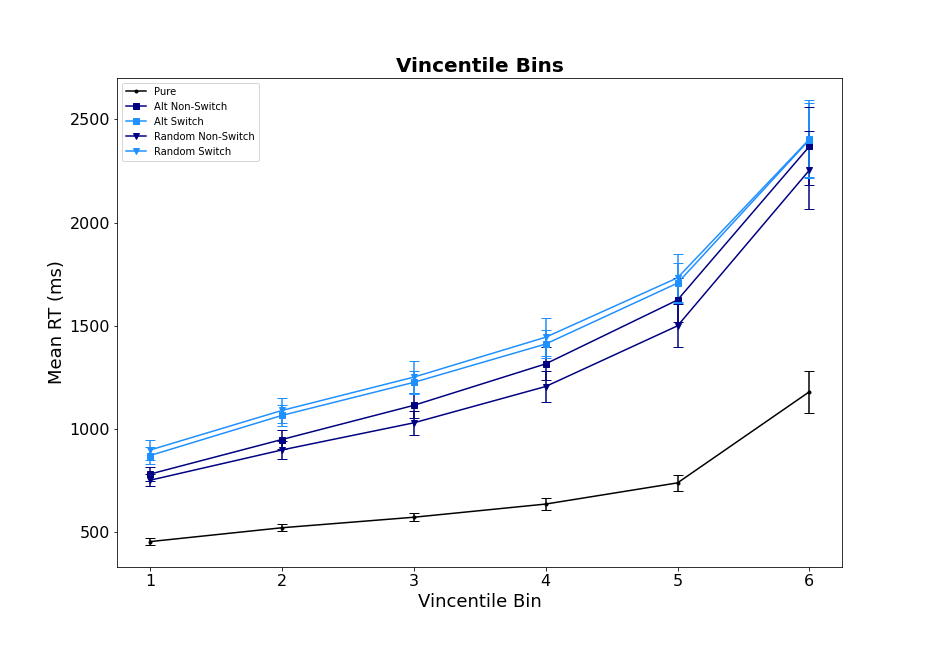
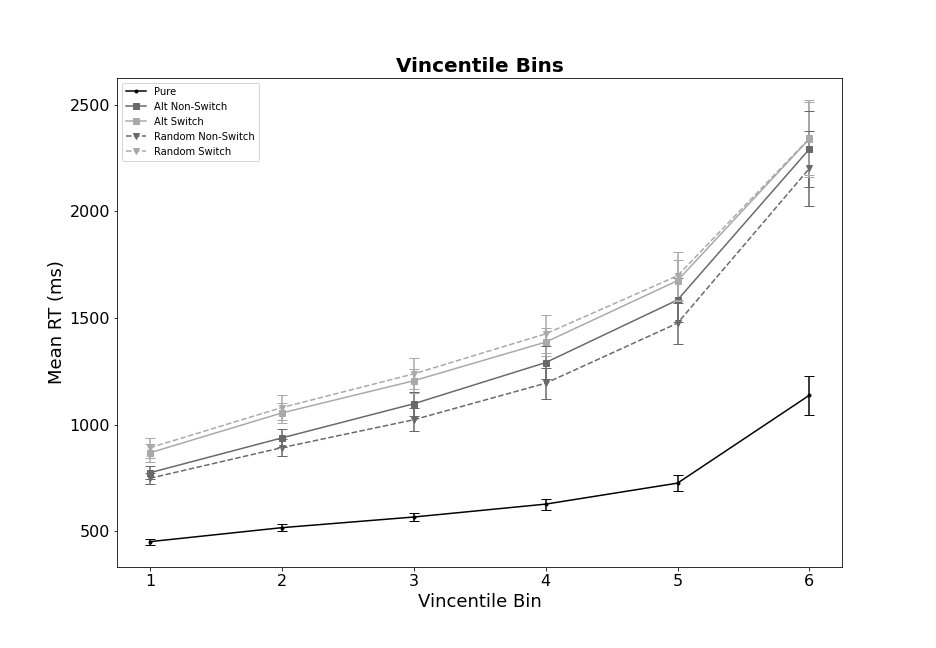
YA vin plot

diff --git a/1 YA/2 Analyses/2 Vincentiles/Plots/Vin plot.py b/1 YA/2 Analyses/2 Vincentiles/Plots/Vin plot.py
@@ -33,29 +33,29 @@ ax1.errorbar(x1, y1, yerr = (pure['diff2']), fmt='none', c= 'k', capsize=5)
 x2 = alt_ns.bin.values
 y2 = alt_ns.Average.values
 
-ax1.plot(x2, y2, marker = 's', color = 'navy', label='Alt Non-Switch')
-ax1.errorbar(x2, y2, yerr = (alt_ns['diff2']), fmt='none', c= 'navy', capsize=5)
+ax1.plot(x2, y2, marker = 's', color = 'dimgray', label='Alt Non-Switch')
+ax1.errorbar(x2, y2, yerr = (alt_ns['diff2']), fmt='none', c= 'dimgray', capsize=5)
 
 ##Switch alt
 x3 = alt_switch.bin.values
 y3 = alt_switch.Average.values
 
-ax1.plot(x3, y3, marker = 's', color = 'dodgerblue', label='Alt Switch')
-ax1.errorbar(x3, y3, yerr = (alt_switch['diff2']), fmt='none', c= 'dodgerblue', capsize=5)
+ax1.plot(x3, y3, marker = 's', color = 'darkgray', label='Alt Switch')
+ax1.errorbar(x3, y3, yerr = (alt_switch['diff2']), fmt='none', c= 'darkgray', capsize=5)
 
 ##rand ns
 x4 = rand_ns.bin.values
 y4 = rand_ns.Average.values
 
-ax1.plot(x4, y4, marker = 'v', color = 'navy', label='Random Non-Switch')
-ax1.errorbar(x4, y4, yerr = (rand_ns['diff2']), fmt='none', c= 'navy', capsize=5)
+ax1.plot(x4, y4,  '--', marker = 'v', color = 'dimgray', label='Random Non-Switch')
+ax1.errorbar(x4, y4, yerr = (rand_ns['diff2']), fmt='none', c= 'dimgray', capsize=5)
 
 ##rand switch
 x5 = rand_switch.bin.values
 y5 = rand_switch.Average.values
 
-ax1.plot(x5, y5, marker = 'v', color = 'dodgerblue', label='Random Switch')
-ax1.errorbar(x5, y5, yerr = (rand_switch['diff2']), fmt='none', c= 'dodgerblue', capsize=5)
+ax1.plot(x5, y5, '--', marker = 'v', color = 'darkgray', label='Random Switch')
+ax1.errorbar(x5, y5, yerr = (rand_switch['diff2']), fmt='none', c= 'darkgray', capsize=5)
 
 ##Make the plot spiffy
 ax1.set_title('Vincentile Bins', fontsize = 20, fontweight = 'bold')
@@ -67,4 +67,4 @@ ax1.tick_params(axis='y', labelsize = 16)
 ax1.legend()
 
 fig
-fig.savefig('YA_Vincentiles.png')
+#fig.savefig('YA_Vincentiles.png')
